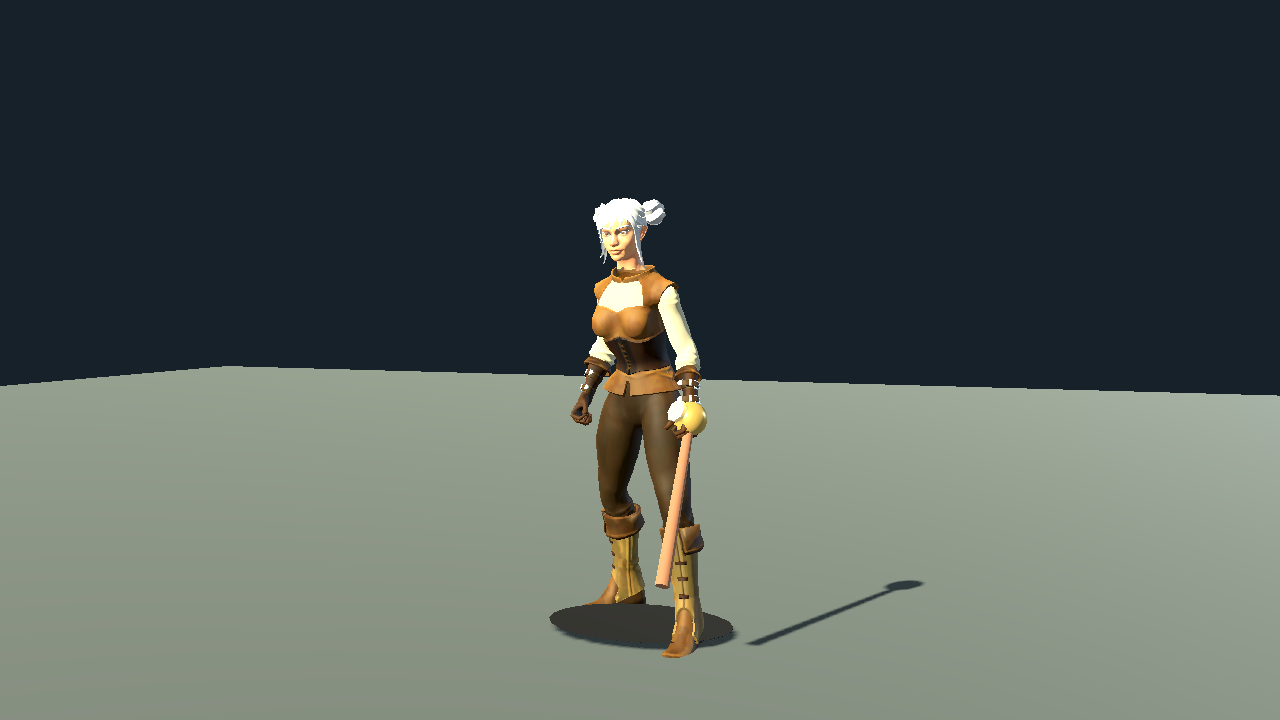
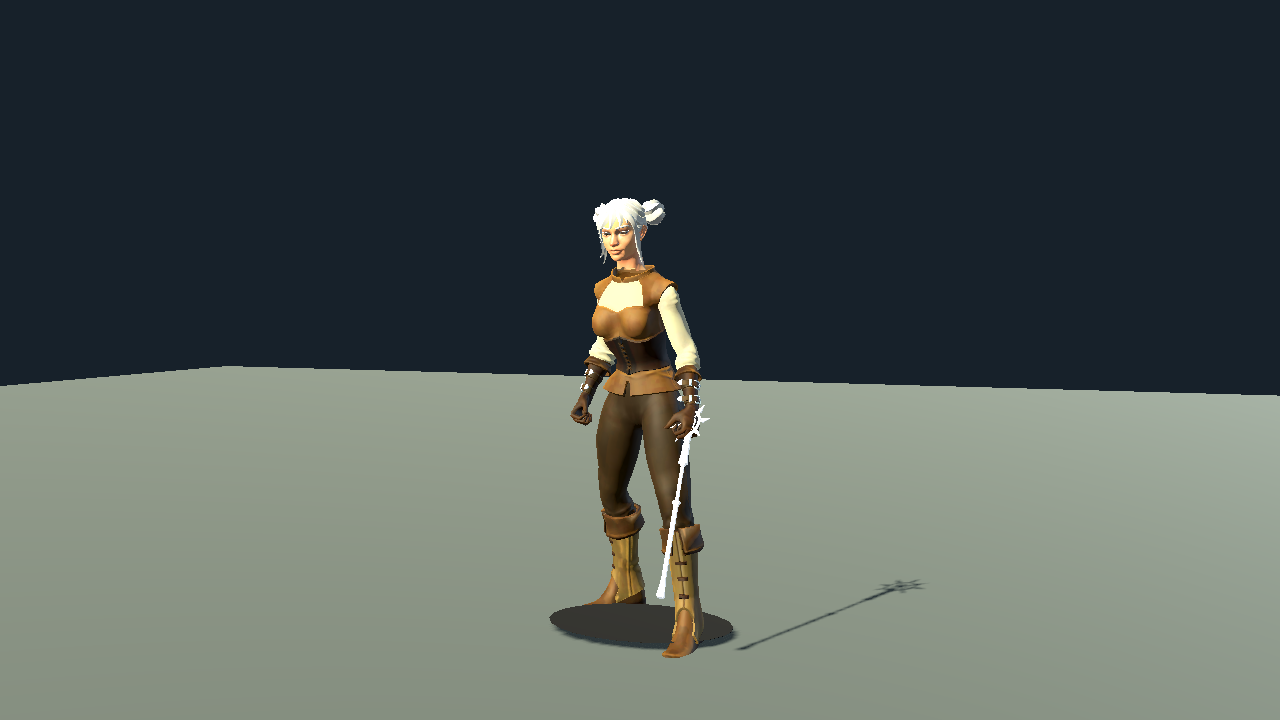
RECOVERY-004: add modeled bow, arrow, and staff props

diff --git a/outputs/AshenOathTheRoadBetweenCrowns/RECOVERY_004_IMPLEMENTATION_STATUS.md b/outputs/AshenOathTheRoadBetweenCrowns/RECOVERY_004_IMPLEMENTATION_STATUS.md
@@ -1,5 +1,40 @@
 # RECOVERY-004 Implementation Status
 
+## Native Contract Checkpoint - 2026-09-11 (modeled bow, arrow, and staff)
+
+- The current atomic source slice is complete on `codex/masterpiece-rebuild`.
+  Kael's bow now uses the existing modeled
+  `res://assets_external/characters/Ranger_Bow.fbx` under the validated hand
+  socket, and the quiver carries the modeled
+  `res://assets_external/characters/Ranger_Arrow.fbx` on the existing back
+  socket. Sister Anwen now uses the existing modeled
+  `res://assets_external/characters/Cleric_Staff.fbx` on her hand socket.
+- The old procedural bow limbs, string, and bow grip were removed. The existing
+  bow state machine, arrow inventory, aiming, release, save state, and equipment
+  visibility contract are unchanged. Missing imported props fail explicitly
+  rather than silently recreating primitive weapon geometry.
+- Production and QA Web presets explicitly include the three imported prop
+  sources. Runtime pack metadata was regenerated against local source commit
+  `ddc9a910e17f1d6cb298366cb34b4ac3bae13873` before this uncommitted slice.
+- Direct proof after the edit: Godot editor/import initialization completed
+  successfully; `CHAR-GAMEPLAY-QA-001`, `ANIM-001`, `COMBAT-001`, `OATH-001`,
+  and `MOTION QUALITY` all report `PASS`. Fresh graphical 1280x720 character
+  evidence was captured for Kael, Anwen, crowd variation, Ranger Senn, monster
+  families, gameplay distance, and Anwen dialogue. The images are stored in
+  `Development_Gallery/screenshots/` and show the modeled Anwen staff attached
+  at the hand and no new proxy anatomy.
+- Remaining limitation: the A-set bodies and retained monster families still
+  carry the previously documented low-poly/provisional visual debt. Native
+  shutdown-only Godot ObjectDB/orphan/resource accounting remains an open
+  lifecycle blocker; it was not relabeled as fixed by this prop slice.
+- No Web export, browser run, push, merge, production `web/` sync, or Vercel
+  deployment was performed. The user-owned untracked
+  `tools/_inspect_milestone_c_assets.gd` remains untouched.
+- Exact next action: create a local checkpoint commit for this verified source
+  slice, then continue lifecycle and visual-debt recovery. Defer the single
+  source-aligned Web export/browser acceptance sequence until the accumulated
+  source fixes are ready.
+
 ## Native Contract Checkpoint - 2026-09-11 (sword and bridge probes)
 
 - The current source checkpoint is on `codex/masterpiece-rebuild`. Kael's

diff --git a/outputs/AshenOathTheRoadBetweenCrowns/PROJECT_STATE.md b/outputs/AshenOathTheRoadBetweenCrowns/PROJECT_STATE.md
@@ -1,5 +1,30 @@
 # Ashen Oath Project State
 
+## Recovery-004 Latest Native Checkpoint - 2026-09-11 (modeled equipment props)
+
+- The current atomic source fix replaces Kael's procedural bow with the
+  modeled `Ranger_Bow.fbx`, adds the modeled `Ranger_Arrow.fbx` to his existing
+  quiver socket, and replaces Anwen's generated staff with the modeled
+  `Cleric_Staff.fbx`. All three remain attached through the existing validated
+  hand/back bone sockets; bow aiming, arrow state, sword state, and dialogue
+  behavior were not rewritten.
+- The old procedural bow limbs/string/grip path is gone. Missing imported props
+  now produce an explicit runtime error instead of silently recreating a
+  primitive visual. Production and QA export presets include the imported
+  prop sources.
+- Native proof is green for `CHAR-GAMEPLAY-QA-001`, `ANIM-001`, `COMBAT-001`,
+  `OATH-001`, and `MOTION QUALITY`. Fresh graphical 1280x720 character
+  evidence was captured and inspected for the A-set, Anwen, crowd variation,
+  Ranger Senn, monster families, and gameplay-distance views.
+- This is a local source/native checkpoint only. The current product remains
+  not release-ready because the documented low-poly/provisional role debt and
+  shutdown-only resource diagnostics remain open. No Web export, browser run,
+  production sync, push, merge, or deployment was performed.
+- Exact next action: commit this verified source slice locally, then continue
+  scoped lifecycle and visual-debt work before the one source-aligned export
+  and browser acceptance run. The user-owned untracked diagnostic remains
+  untouched.
+
 ## Recovery-004 Latest Native Checkpoint - 2026-09-11
 
 - The canonical source remains on `codex/masterpiece-rebuild` in
